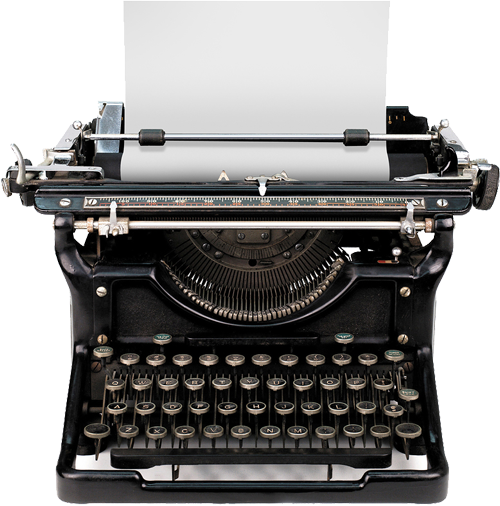
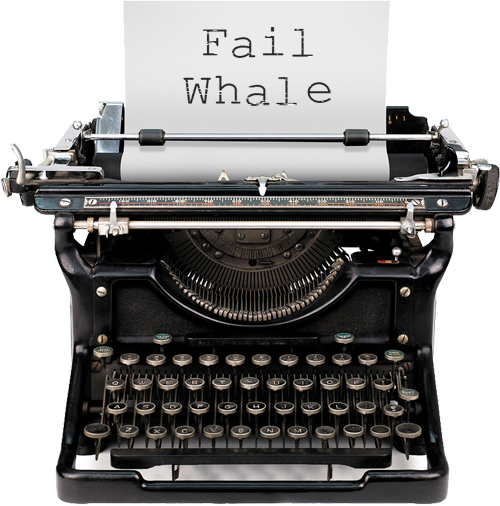
Updated fail whale image.

Changed region(s): [[0.36, 0.1482, 0.66, 0.2075], [0.39, 0.0593, 0.51, 0.1186], [0.54, 0.0593, 0.63, 0.1186]]

diff --git a/404.php b/404.php
@@ -11,8 +11,7 @@
                 <h2>Oops... 404!</h2>
                 <p>You've stumbled upon the infamous CUNY J-School fail whale. Try browsing or do a search to continue on your way!</p>
                 <div class="fail-whale">
-                    <p>FAIL WHALE</p>
-                    <img src="<?php bloginfo('template_directory'); ?>/images/fail-whale" alt="Fail Whale"/>
+                    <img src="<?php bloginfo('template_directory'); ?>/images/fail-whale" alt="Fail Whale" />
                 </div>
 			
 			</div><!-- END .archive -->
